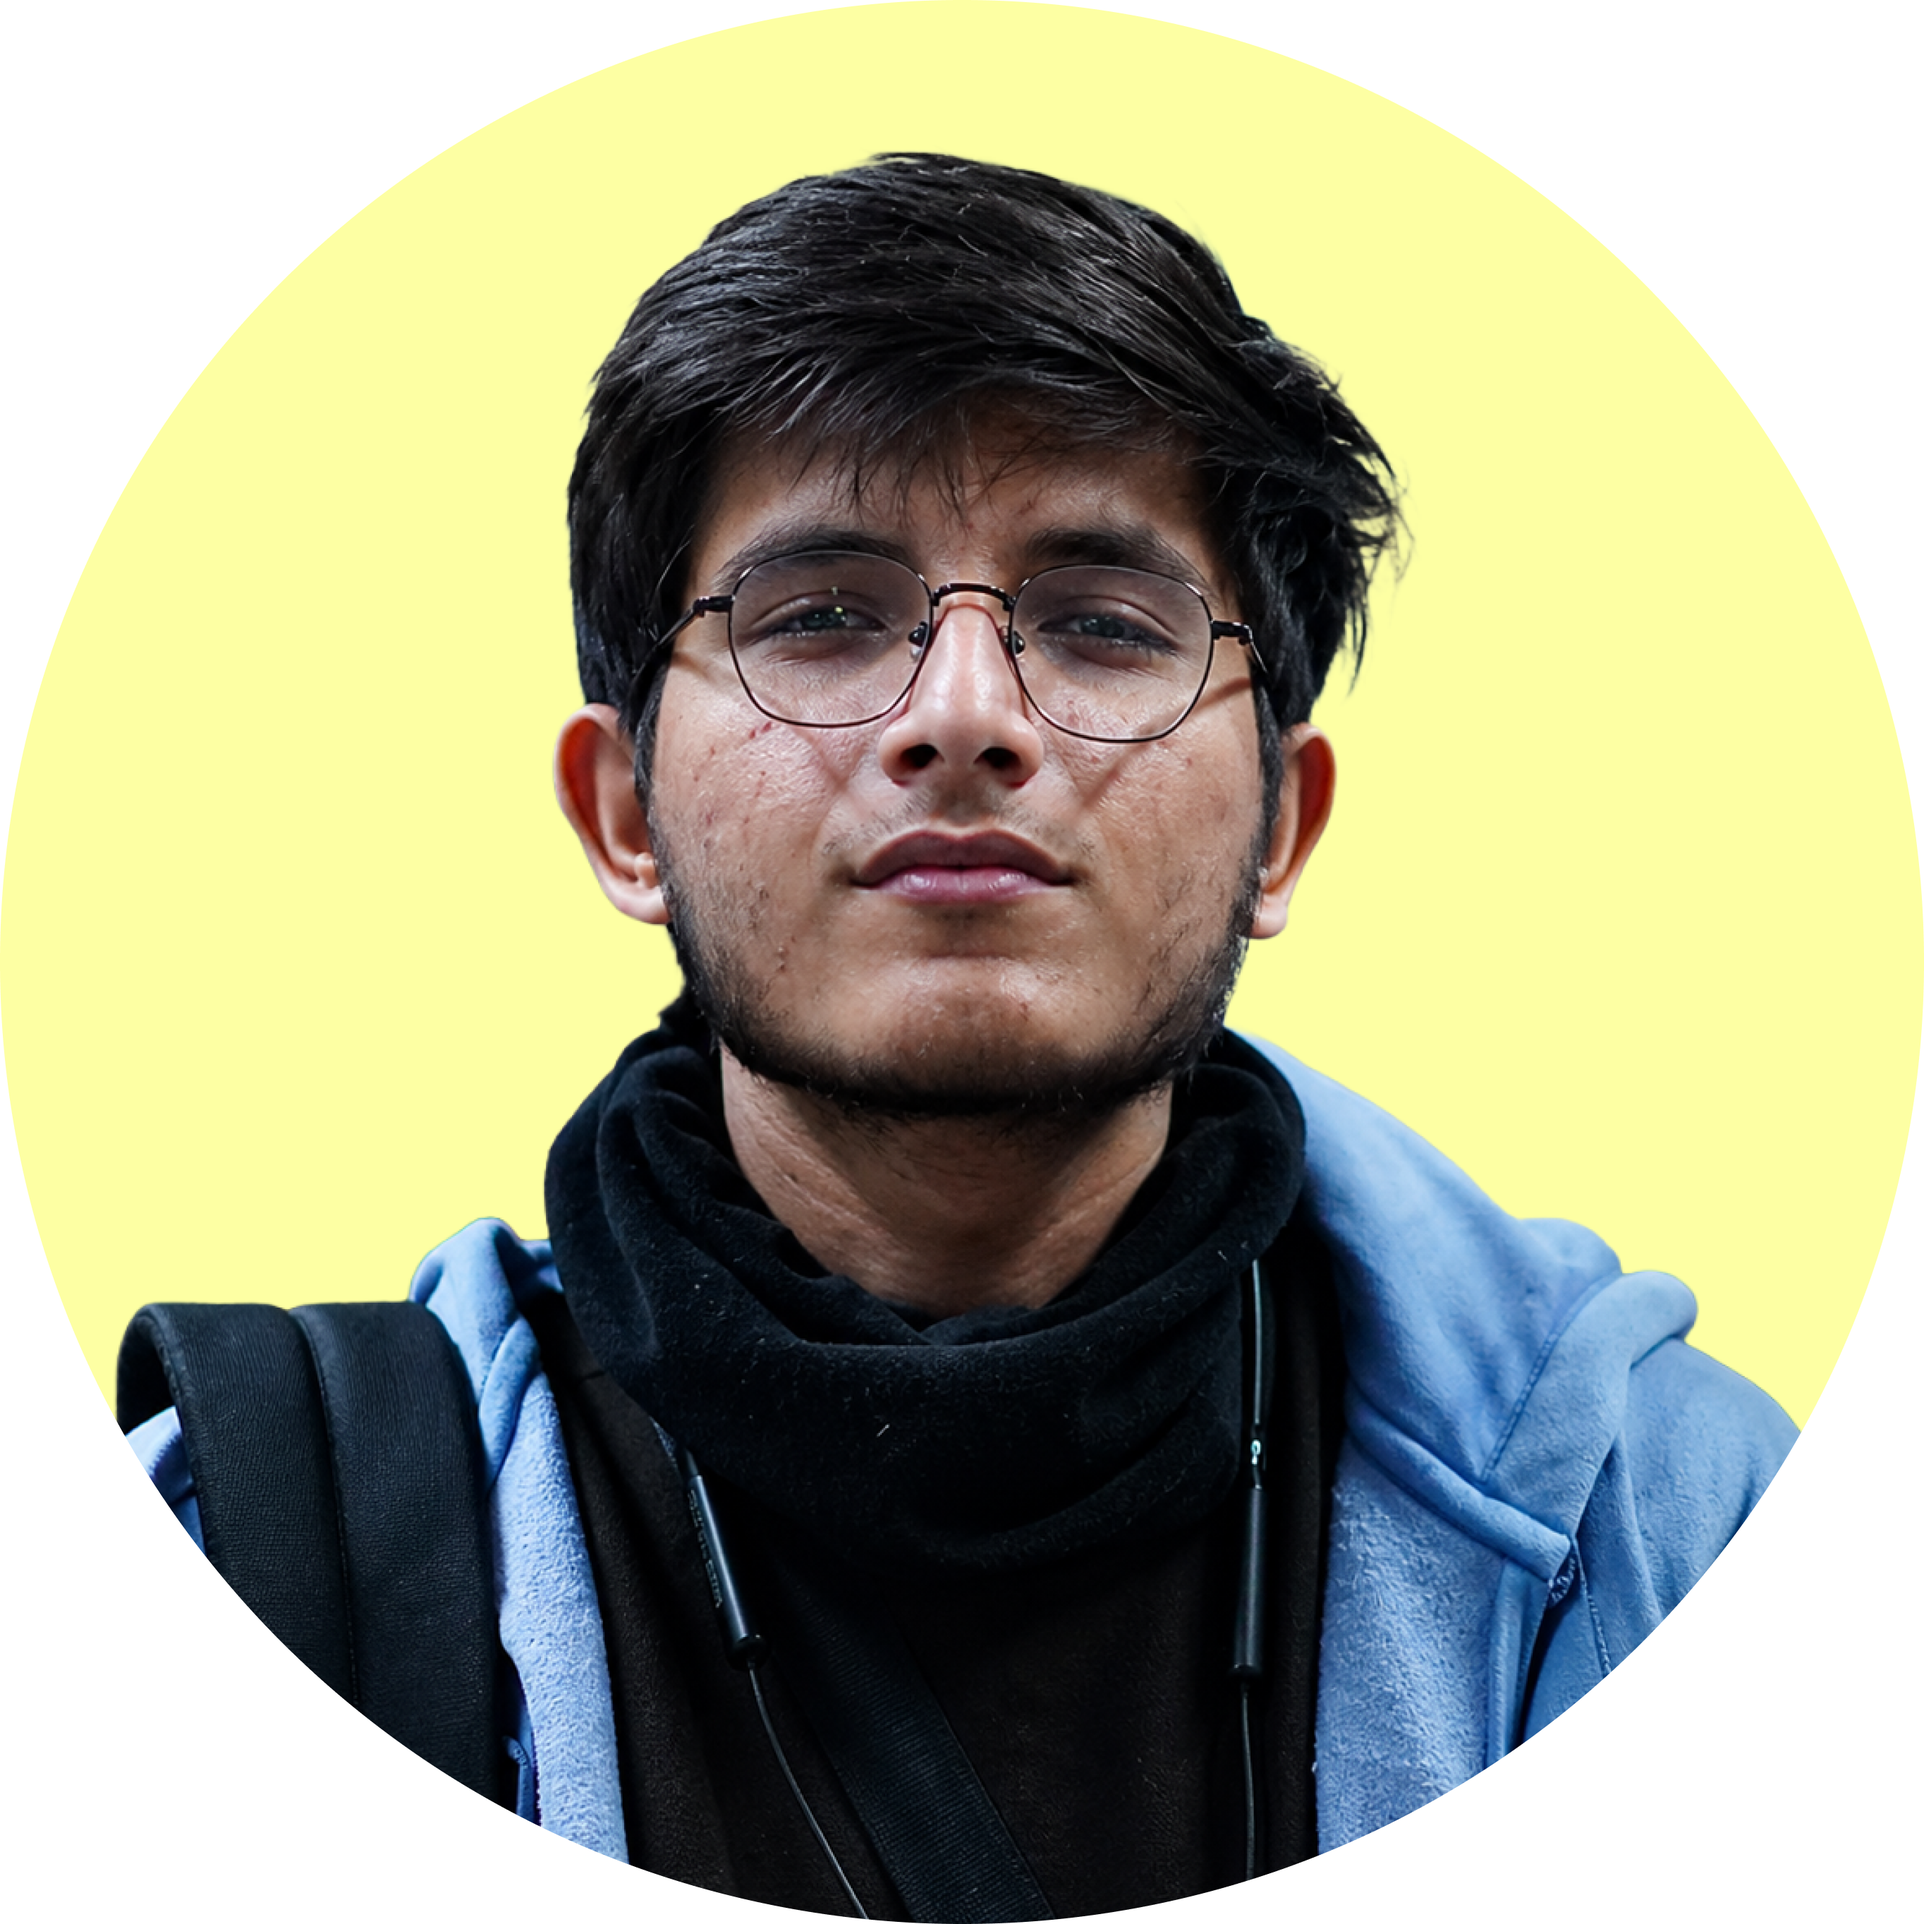
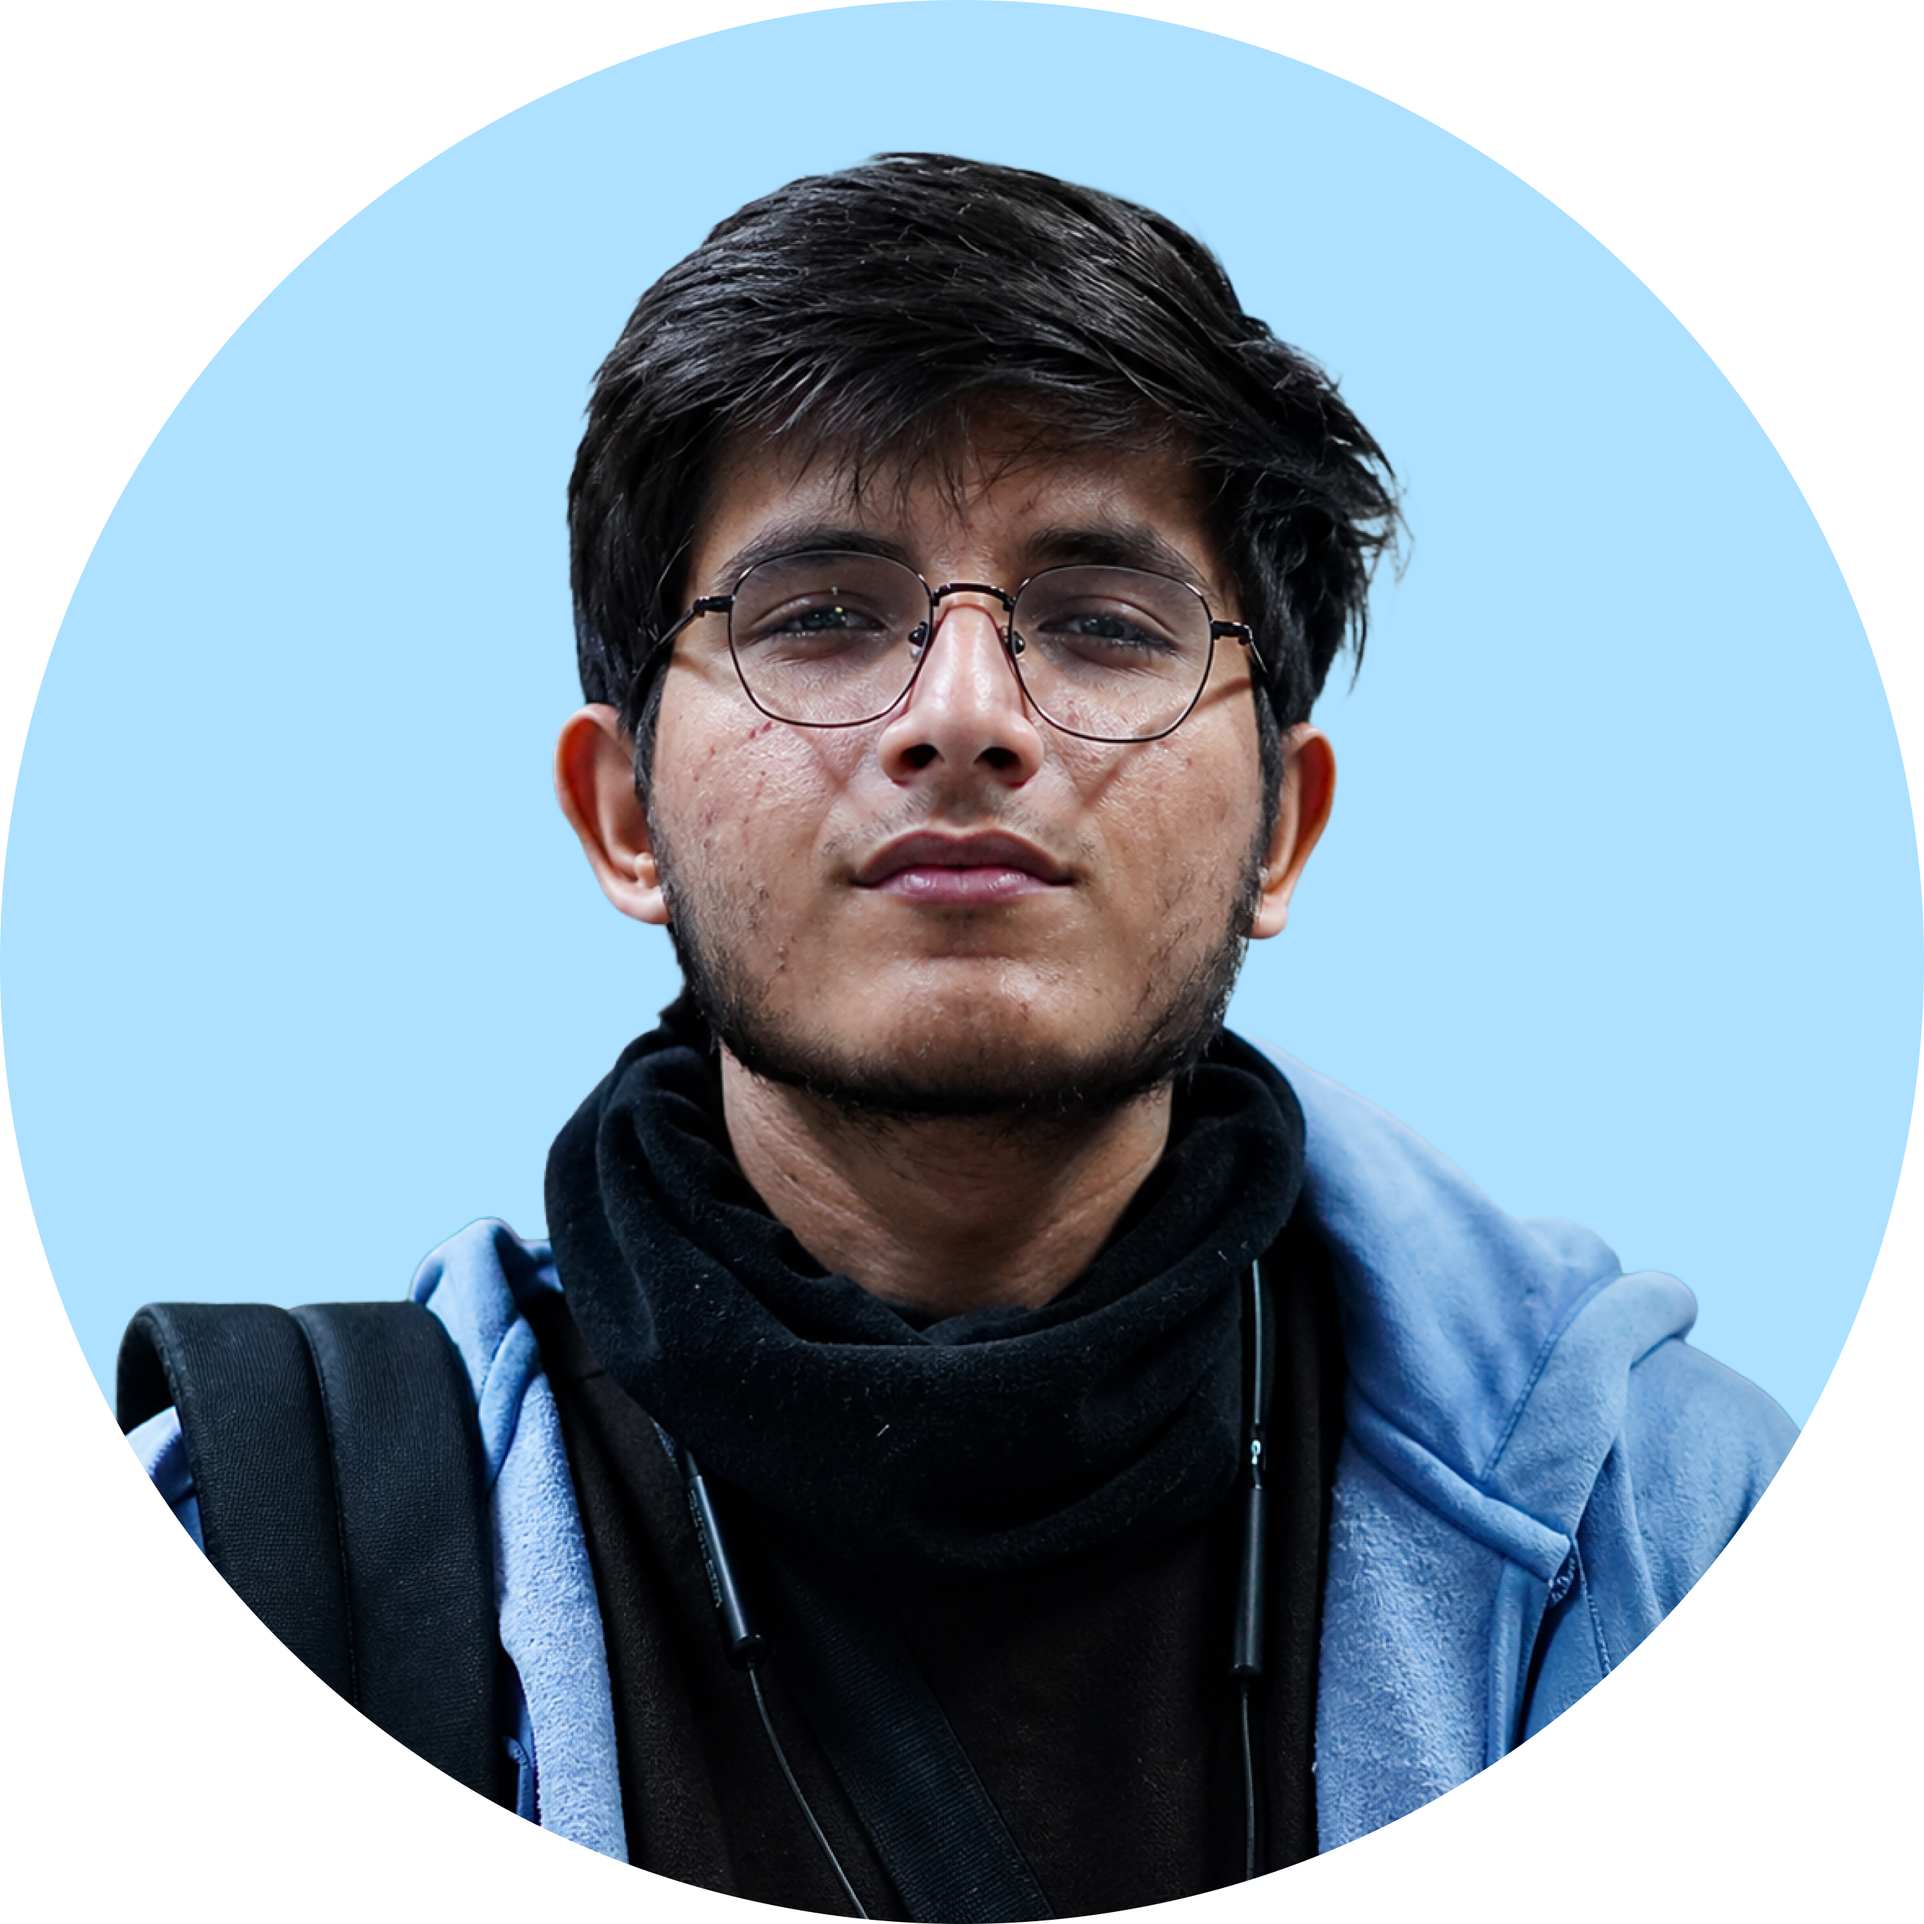
update-reviewcontent

diff --git a/src/app/reviews/page.tsx b/src/app/reviews/page.tsx
@@ -19,7 +19,7 @@ const reviewtestimonials = [
         text: "My name is Mayank Kumar. I have completed my class 12 from Balodir Public School in Delhi. I’m really excited to explore my MBBS dreams at 12th State Medical University.",
         tag: "MBBS",
         status: "TSMU",
-        avatar: "/images/reviews/user1.webp",
+        avatar: "/images/reviews/mayank-kumar.webp",
         logo: "/images/reviews/university1.webp",
     },
     {
@@ -49,7 +49,7 @@ const reviewtestimonials = [
         text: "I'm Tanishka, I'm from Ghaziabad I'm going to Tver State Medical University through Radical Education. Actually I got a pamphlet my initial day when I am preparing for NEET.",
         tag: "MBBS",
         status: "TSMU",
-        avatar: "/images/reviews/user4.webp",
+        avatar: "/images/reviews/tanishka.webp",
         logo: "/images/reviews/university1.webp",
     },
     {
@@ -59,7 +59,7 @@ const reviewtestimonials = [
         text: "I choose Radical Education for my MBBS counselling. The process was smooth and professional.",
         tag: "MBBS",
         status: "HIMS",
-        avatar: "/images/reviews/user13.webp",
+        avatar: "/images/reviews/tanya-saxena.webp",
         logo: "/images/reviews/university13.webp",
     },
     {
@@ -69,7 +69,7 @@ const reviewtestimonials = [
         text: "I secured an MBBS seat in medical College with the help of radical education. The process was very professional.",
         tag: "MBBS",
         status: "NCRIMS",
-        avatar: "/images/reviews/user5.webp",
+        avatar: "/images/reviews/etshamul-haque.webp",
         logo: "/images/reviews/university5.webp",
     },
     {
@@ -79,7 +79,7 @@ const reviewtestimonials = [
         text: "I recently took counselling services from Radical Education for my MBBS admission. My counsellor, Pooja, was extremely supportive and explained everything in detail, from the options available to the admission process.",
         tag: "MBBS",
         status: "UIMS",
-        avatar: "/images/reviews/user6.webp",
+        avatar: "/images/reviews/aryan-vijay.webp",
         logo: "/images/reviews/university6.webp",
     },
     {
@@ -89,7 +89,7 @@ const reviewtestimonials = [
         text: "I’m so grateful to Radical Education and especially Hitashi Agrawal ma'am for helping me throughout my MBBS admission process.",
         tag: "MBBS",
         status: "MRMCW",
-        avatar: "/images/reviews/user7.webp",
+        avatar: "/images/reviews/yashvi-agarwal.webp",
         logo: "/images/reviews/university7.webp",
     },
     {
@@ -99,7 +99,7 @@ const reviewtestimonials = [
         text: "My experience with Radical Education has been amazing! I took their help for MBBS counselling, and the entire process was smooth and transparent.",
         tag: "MBBS",
         status: "SMCH",
-        avatar: "/images/reviews/user8.webp",
+        avatar: "/images/reviews/iqra-ansari.webp",
         logo: "/images/reviews/university8.webp",
     },
     {
@@ -109,7 +109,7 @@ const reviewtestimonials = [
         text: "Glad to secure a seat in BAMS in the first round. Great counselling company, very engaging mentors. Highly recommend them.",
         tag: "BAMS",
         status: "KACRC",
-        avatar: "/images/reviews/user9.webp",
+        avatar: "/images/reviews/swarnjit-bhadra.webp",
         logo: "/images/reviews/university9.webp",
     },
     {
@@ -119,7 +119,7 @@ const reviewtestimonials = [
         text: "Ms.Hitashi Agarwal Mam counsellor at radical education made NEET counselling hassle free and resolved each and every query regarding whole process.",
         tag: "MBBS",
         status: "TMMCRC",
-        avatar: "/images/reviews/user10.webp",
+        avatar: "/images/reviews/shreya-jain.webp",
         logo: "/images/reviews/university10.webp",
     },
     {
@@ -129,7 +129,7 @@ const reviewtestimonials = [
         text: "I choose radical education for my mbbs counselling and it was very helpful they guided me very well throughout the process in securing",
         tag: "MBBS",
         status: "GMC",
-        avatar: "/images/reviews/user11.webp",
+        avatar: "/images/reviews/kshiraj-luthra.webp",
         logo: "/images/reviews/university11.webp",
     },
     {
@@ -139,8 +139,68 @@ const reviewtestimonials = [
         text: "Attending the Radical Education BAMS counselling was an excellent experience. Specially Dr. Alok Sir was always available to answer my queries regarding BAMS colleges",
         tag: "BAMS",
         status: "MGAMCRC",
-        avatar: "/images/reviews/user12.webp",
+        avatar: "/images/reviews/sangam-yadav.webp",
         logo: "/images/reviews/university12.webp",
+    },
+    {
+        id: 13,
+        name: "ANANT DEEP SINGHAL",
+        location: "Uttar Pradesh",
+        text: "I am very much greatful that I had choosen Radical education for my neet counselling. They helped me and make me believe that I will secure a MBBS seat in a good medical College. They have marked our councelling process very smooth ; we doesn't faced any single type of difficulty. Their way to interact with us was also good . Under their guidance I secured a seat in MMC muzaffarnagar.",
+        tag: "MBBS",
+        status: "MMC",
+        avatar: "/images/reviews/anant-deep-singhal.webp",
+        logo: "/images/reviews/anant-university.webp",
+    },
+    {
+        id: 14,
+        name: "ARUSH LOOMBA",
+        location: "Haryana",
+        text: "Securing a seat in the first attempt itself was a milestone achievement for me. Everything was done in a very smooth manner due to proper guidance provided by Alok Sir & Sudha Ma'am. All my queries were satisfactorily answered. I highly recommend Radical Education.",
+        tag: "MBBS",
+        status: "KDMCHRC",
+        avatar: "/images/reviews/arush-loomba.webp",
+        logo: "/images/reviews/arush-university.webp",
+    },
+    {
+        id: 15,
+        name: "IFA IMRAN",
+        location: "Delhi",
+        text: " The process was smooth with proper guidance throughout. Getting a seat in the second round of UP counselling was a great moment and it was not possible without the guidance from Randical education mentors. Highly recommended!",
+        tag: "BDS",
+        status: "KDDCH",
+        avatar: "/images/reviews/ifa-imran.webp",
+        logo: "/images/reviews/ifa-university.webp",
+    },
+    {
+        id: 16,
+        name: "SALONI",
+        location: "Haryana",
+        text: "I'm Saloni a mbbs student Radical education counselors are very expert and experienced n amazing. They helped me to get best govt mbbs college till last round.they behaved like a family members. I m thankful of all radical education team members.thanku so much. I advice all of you to take helping for the counselling.",
+        tag: "MBBS",
+        status: "Pt. NRSGMC",
+        avatar: "/images/reviews/saloni.webp",
+        logo: "/images/reviews/saloni-university.webp",
+    },
+    {
+        id: 17,
+        name: "ISHIKA",
+        location: "UTTAR PRADESH",
+        text: "Thanking Radical Education wholeheartedly for their support during my MBBS admissions, I have been extremely happy to be selected in the first attempt in UP counselling at GIMS, Greater Noida. They provided me proper guidance right from filling of choices till final selection. It was all because of the honesty and dedication shown by them. I would recommend them to all those who wish to pursue their career in medicine.",
+        tag: "MBBS",
+        status: "GIMS",
+        avatar: "/images/reviews/ishika.webp",
+        logo: "/images/reviews/ishika-university.webp",
+    },
+    {
+        id: 18,
+        name: "SAMYA JAGGA",
+        location: "Uttar Pradesh",
+        text: "Firstly, I would like to express my heartfelt gratitude towards Radical Education for the excellent guidance provided to me in securing admission in the MBBS program. It has been a huge milestone for me to get admission in the first round of UP Counselling in Subharti Medical College, Meerut. They have always been there with me and have responded to my queries promptly.",
+        tag: "MBBS",
+        status: "SMC",
+        avatar: "/images/reviews/samya-jagga.webp",
+        logo: "/images/reviews/samya-university.webp",
     },
 ];
 

diff --git a/src/app/mbbs-deemed-colleges-in-india/page.tsx b/src/app/mbbs-deemed-colleges-in-india/page.tsx
@@ -623,9 +623,9 @@ export default function MBBSDeemedCollegesPage() {
                       },
                       {
                         name: "Mahatma Gandhi Missions Medical College",
-                        location: "Panvel",
+                        location: "Navi Mumbai",
                         logo: "",
-                        url: ""
+                        url: "https://www.radicaleducation.in/mgm-navi-mumbai"
                       },
                       {
                         name: "D. Y. Patil University, School Of Medicine",
